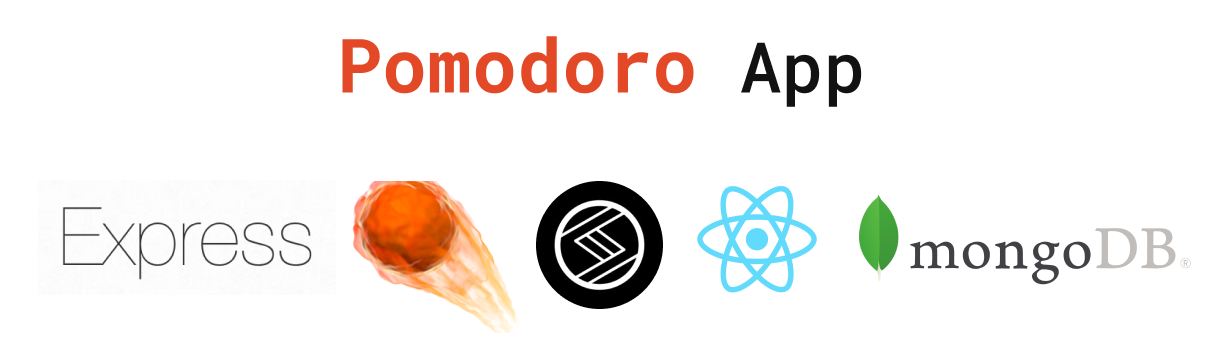
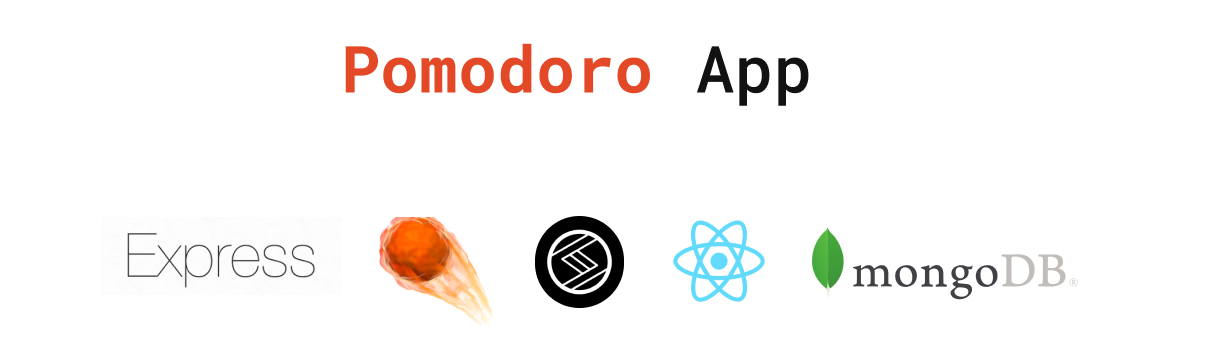
refactor(Pomodoro): Change value colors and spacings

Changed region(s): [[0.0311, 0.4986, 0.9656, 0.9348], [0.2803, 0.0935, 0.7164, 0.3116], [0.0623, 0.5609, 0.0934, 0.5921]]

diff --git a/packages/design/dist/stitches.config.js b/packages/design/dist/stitches.config.js
@@ -1,1 +1,1 @@
-"use strict";Object.defineProperty(exports,"__esModule",{value:!0}),exports.styled=exports.css=exports.baseColors=void 0;var _react=require("@stitches/react"),_utils=require("./utils");function ownKeys(a,b){var c=Object.keys(a);if(Object.getOwnPropertySymbols){var d=Object.getOwnPropertySymbols(a);b&&(d=d.filter(function(b){return Object.getOwnPropertyDescriptor(a,b).enumerable})),c.push.apply(c,d)}return c}function _objectSpread(a){for(var b,c=1;c<arguments.length;c++)b=null==arguments[c]?{}:arguments[c],c%2?ownKeys(Object(b),!0).forEach(function(c){_defineProperty(a,c,b[c])}):Object.getOwnPropertyDescriptors?Object.defineProperties(a,Object.getOwnPropertyDescriptors(b)):ownKeys(Object(b)).forEach(function(c){Object.defineProperty(a,c,Object.getOwnPropertyDescriptor(b,c))});return a}function _defineProperty(a,b,c){return b in a?Object.defineProperty(a,b,{value:c,enumerable:!0,configurable:!0,writable:!0}):a[b]=c,a}var baseColors={primary:"#FF7E7A",secondary:"#1CA0F2",third:"#ba68c8"};exports.baseColors=baseColors;var _createStyled=(0,_react.createStyled)({tokens:{colors:_objectSpread({blackAlpha5:"rgba(0, 0, 0, 0.05)",blackAlpha60:"rgba(0, 0, 0, 0.60)",blackAlpha80:"rgba(0, 0, 0, 0.80)",primary10:"#2967B3",primary20:"#3B5897",primaryDark:"rgb(10,20,50)",primaryDark20:"rgb(5,10,30)",card:"#ffffff",normalText:"#FFFFFF",darkText:"#rgb(20,20,20)",neutral:"rgb(90,90,90)"},baseColors),fontSizes:{small:".9rem",regular:"1rem",medium:"1.2rem",big:"2rem"},radii:{small:"10px",medium:"60px",full:"100%"},space:{sp5:"5px",sp10:"10px",sp20:"20px"}},utils:{size:function size(){return function(a){return{width:a,height:a}}}},breakpoints:{xphone:(0,_utils.breakpoint)("320px"),lphone:(0,_utils.breakpoint)("480px"),stablet:(0,_utils.breakpoint)("600px"),mtablet:(0,_utils.breakpoint)("768px"),ltablet:(0,_utils.breakpoint)("800px"),sdesktop:(0,_utils.breakpoint)("10240px"),mdesktop:(0,_utils.breakpoint)("1280px"),ldesktop:(0,_utils.breakpoint)("1440px")}}),css=_createStyled.css,styled=_createStyled.styled;exports.styled=styled,exports.css=css;
+"use strict";Object.defineProperty(exports,"__esModule",{value:!0}),exports.styled=exports.css=exports.baseColors=void 0;var _react=require("@stitches/react"),_utils=require("./utils");function ownKeys(a,b){var c=Object.keys(a);if(Object.getOwnPropertySymbols){var d=Object.getOwnPropertySymbols(a);b&&(d=d.filter(function(b){return Object.getOwnPropertyDescriptor(a,b).enumerable})),c.push.apply(c,d)}return c}function _objectSpread(a){for(var b,c=1;c<arguments.length;c++)b=null==arguments[c]?{}:arguments[c],c%2?ownKeys(Object(b),!0).forEach(function(c){_defineProperty(a,c,b[c])}):Object.getOwnPropertyDescriptors?Object.defineProperties(a,Object.getOwnPropertyDescriptors(b)):ownKeys(Object(b)).forEach(function(c){Object.defineProperty(a,c,Object.getOwnPropertyDescriptor(b,c))});return a}function _defineProperty(a,b,c){return b in a?Object.defineProperty(a,b,{value:c,enumerable:!0,configurable:!0,writable:!0}):a[b]=c,a}var baseColors={primary:"#FF7E7A",secondary:"#1CA0F2",third:"#ba68c8"};exports.baseColors=baseColors;var _createStyled=(0,_react.createStyled)({tokens:{colors:_objectSpread({blackAlpha5:"rgba(0, 0, 0, 0.05)",blackAlpha60:"rgba(0, 0, 0, 0.60)",blackAlpha80:"rgba(0, 0, 0, 0.80)",primary10:"#2967B3",primary20:"#3B5897",primaryDark:"#1b2242",primaryDark20:"#141930",card:"#ffffff",normalText:"#FFFFFF",darkText:"#rgb(20,20,20)",neutral:"#4a4e67"},baseColors),fontSizes:{small:".9rem",regular:"1rem",medium:"1.2rem",big:"2rem"},radii:{small:"10px",medium:"60px",full:"100%"},space:{sp5:"5px",sp10:"10px",sp20:"20px"}},utils:{size:function size(){return function(a){return{width:a,height:a}}}},breakpoints:{xphone:(0,_utils.breakpoint)("320px"),lphone:(0,_utils.breakpoint)("480px"),stablet:(0,_utils.breakpoint)("600px"),mtablet:(0,_utils.breakpoint)("768px"),ltablet:(0,_utils.breakpoint)("800px"),sdesktop:(0,_utils.breakpoint)("10240px"),mdesktop:(0,_utils.breakpoint)("1280px"),ldesktop:(0,_utils.breakpoint)("1440px")}}),css=_createStyled.css,styled=_createStyled.styled;exports.styled=styled,exports.css=css;

diff --git a/packages/app/src/containers/Pomodoro/components/CircleProgressBar/index.jsx b/packages/app/src/containers/Pomodoro/components/CircleProgressBar/index.jsx
@@ -8,8 +8,11 @@ const CircleWrapper = styled('div', {
   alignItems: 'center',
   margin: '20px auto',
   borderRadius: 'full',
-  boxShadow:
-    '10px 10px 20px rgba(20,20,20,.1), -10px -10px 30px rgba(30,40,100),5px 4px 10px rgba(0,0,0,.3)',
+  boxShadow: `10px 10px 20px rgba(20,20,20,.1), 
+    -10px -10px 30px #272a55,
+    5px 4px 10px rgba(0,0,0,.1), 
+    50px 30px 60px rgba(0,0,0,.3)
+    `,
 });
 
 export default function CircleProgressBar({
@@ -22,7 +25,7 @@ export default function CircleProgressBar({
   minValue,
   maxValue,
 }) {
-  const progressSize = size - 15;
+  const progressSize = size - 20;
 
   return (
     <CircleWrapper style={{ width: size + 'px', height: size + 'px' }}>
@@ -64,6 +67,7 @@ export default function CircleProgressBar({
           <span
             className={css({
               textTransform: 'uppercase',
+              marginTop: 'sp20',
               letterSpacing: '10px',
               color: 'normalText',
               cursor: 'pointer',

diff --git a/packages/design/src/stitches.config.js b/packages/design/src/stitches.config.js
@@ -15,12 +15,12 @@ export const { css, styled } = createStyled({
       blackAlpha80: 'rgba(0, 0, 0, 0.80)',
       primary10: '#2967B3',
       primary20: '#3B5897',
-      primaryDark: 'rgb(10,20,50)',
-      primaryDark20: 'rgb(5,10,30)',
+      primaryDark: '#1b2242',
+      primaryDark20: '#141930',
       card: '#ffffff',
       normalText: '#FFFFFF',
       darkText: '#rgb(20,20,20)',
-      neutral: 'rgb(90,90,90)',
+      neutral: '#4a4e67',
       ...baseColors,
     },
     fontSizes: {

diff --git a/packages/app/src/containers/Pomodoro/components/Title/index.jsx b/packages/app/src/containers/Pomodoro/components/Title/index.jsx
@@ -6,6 +6,7 @@ const h1Classnames = css({
   color: 'normalText',
   textAlign: 'center',
   marginBottom: 'sp20',
+  textShadow: '0 6px 10px rgba(50,60,80,.5)',
 });
 
 export default function Title() {
